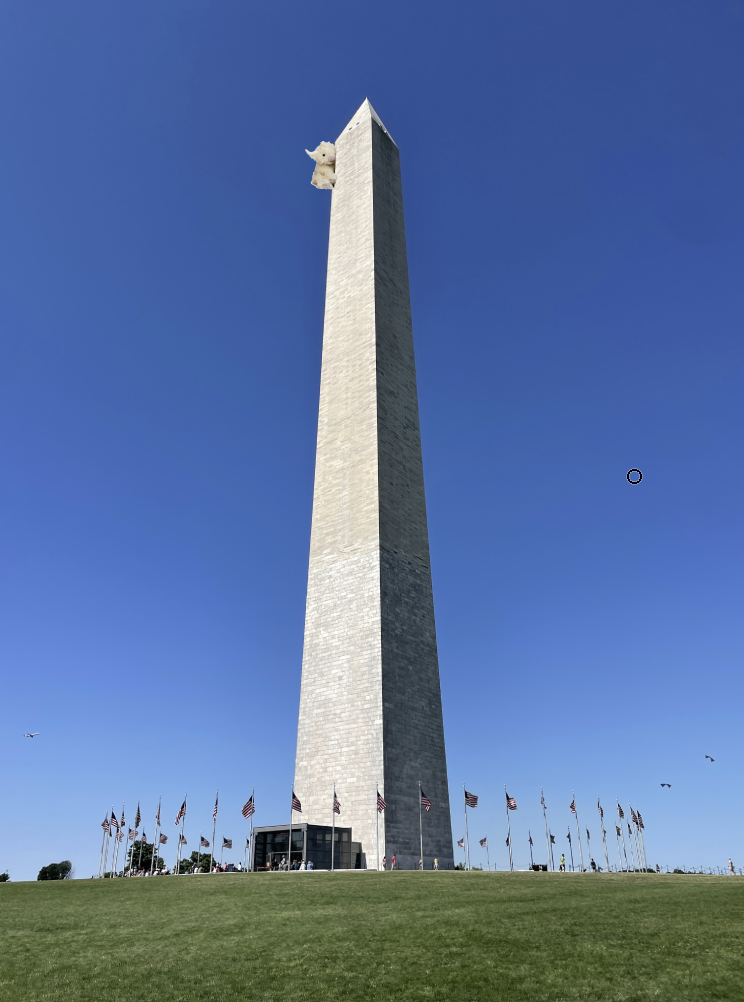
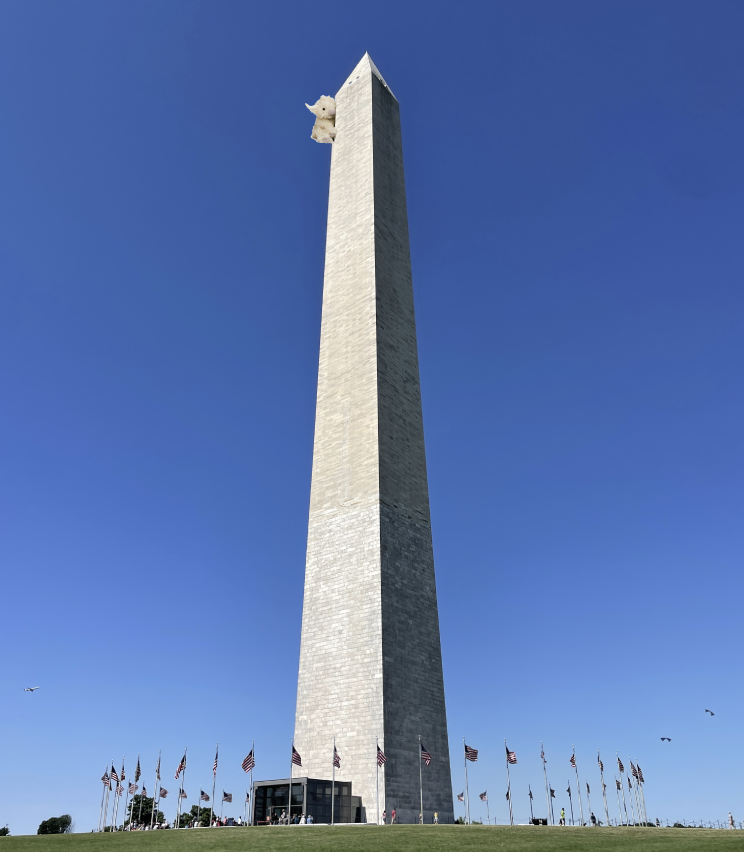
flip order

Changed region(s): [[0.0, 0.4272, 1.0, 1.0], [0.4019, 0.061, 0.5565, 0.2136], [0.8347, 0.4577, 0.8656, 0.4883]]

diff --git a/styles.css b/styles.css
@@ -21,7 +21,7 @@ body {
   margin: 0;
   min-width: 320px;
   color: var(--text);
-  
+
   font-family: Inter, system-ui, -apple-system, BlinkMacSystemFont, "Segoe UI", sans-serif;
 }
 
@@ -185,7 +185,7 @@ h1 {
 /* Helpful if a source image is extremely tall */
 @media (min-width: 800px) {
   .photo-wrap img {
-    max-height: 760px;
+    max-height: 1000px;
   }
 }
 

diff --git a/script.js b/script.js
@@ -90,7 +90,7 @@ const visibleStops = locations
       return a.file.localeCompare(b.file);
     });
 
-visibleStops.forEach((location, index) => {
-  const isActive = index === visibleStops.length - 1;
+visibleStops.reverse().forEach((location, index) => {
+  const isActive = index === 0;
   timeline.appendChild(createStop(location, index, isActive));
 });
